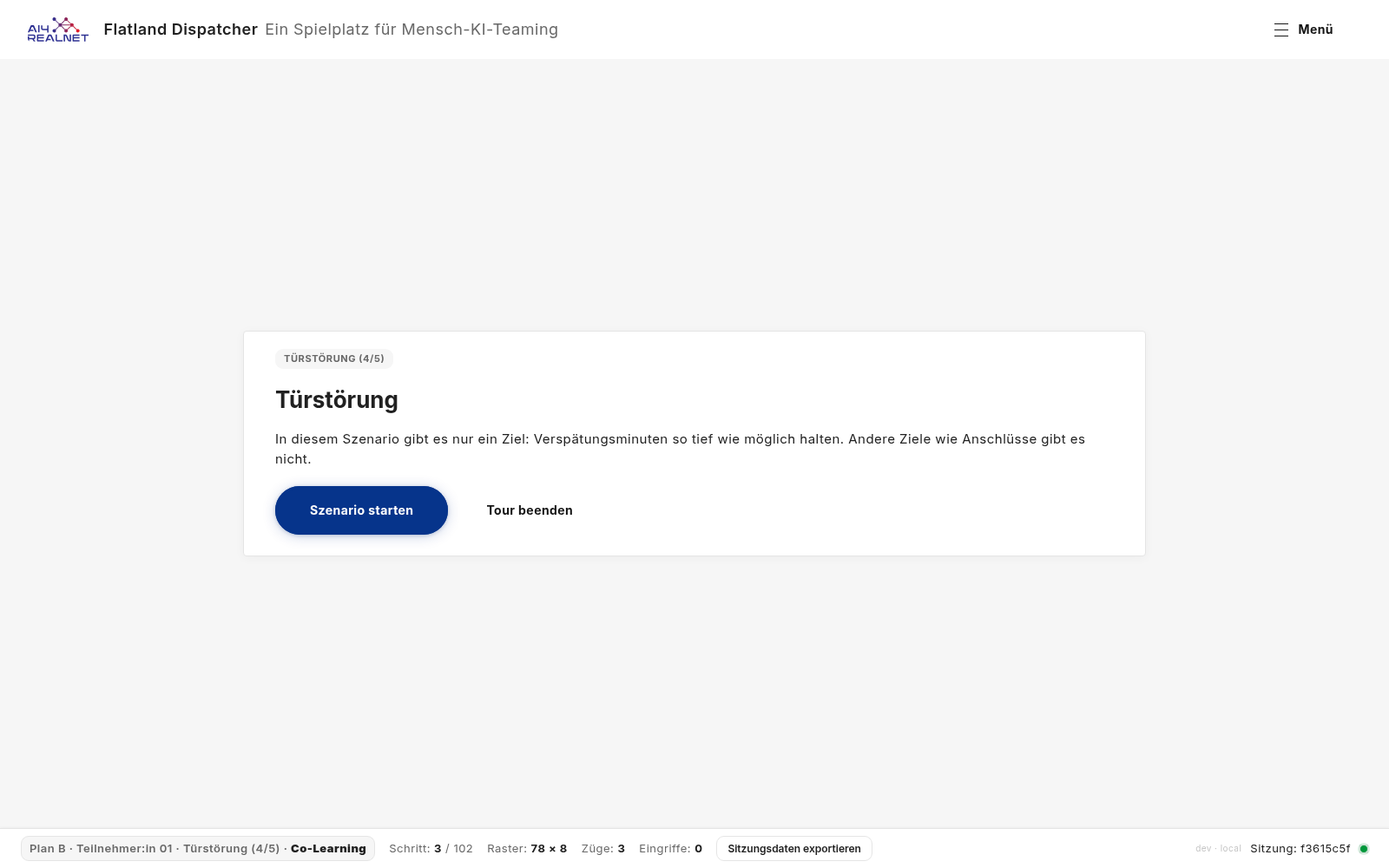
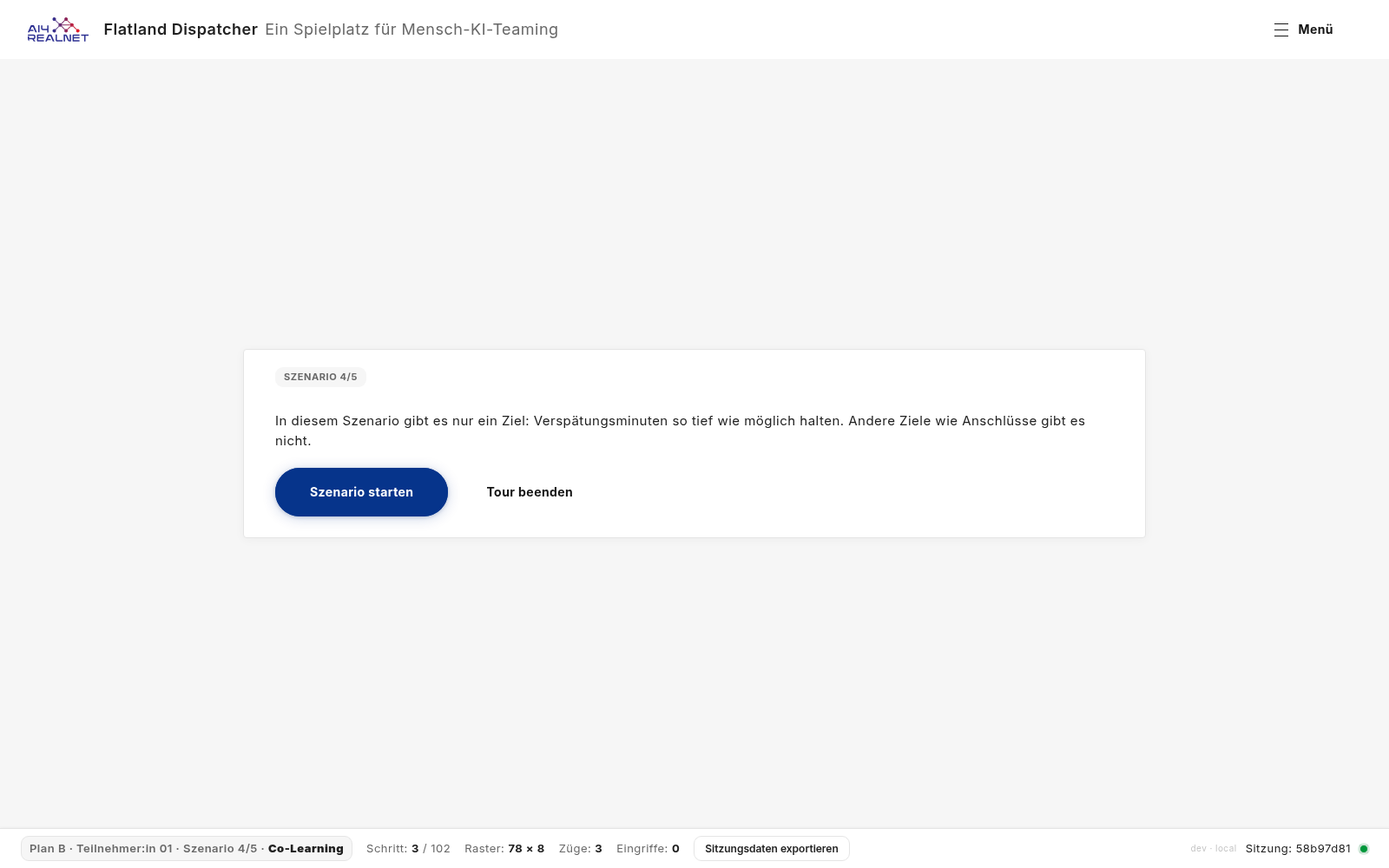
docs(plans): screenshots of the footer and the intro card without scenario names for #198.
After screenshots and walk-through retaken at f4f59f8e: the footer and the
intro card count the scenario ("Szenario 4/5") and the card has no title.
The plan records REQ-6, Q-2 revisited again, the single label gate of S-4,
and the commits of S-3 and S-4.

Changed region(s): [[0.1875, 0.403, 0.7812, 0.62], [0.125, 0.961, 0.625, 0.992], [0.875, 0.961, 0.9688, 0.992]]

diff --git a/docs/plans/hide-scenario-bar.md b/docs/plans/hide-scenario-bar.md
@@ -1,6 +1,6 @@
 # Plan B without the guide strip and without scenario names (#198)
 
-> **Status:** plan of 2026-11-16, built 2026-11-16 (S-0 to S-3). Based on `main` fd0c70cb (#164 merged). Issue
+> **Status:** plan of 2026-11-16, built 2026-11-16 (S-0 to S-5). Based on `main` fd0c70cb (#164 merged). Issue
 > [#198](https://github.com/flatland-association/flatland-ui-hub/issues/198) ("Szenario-Balken ausblenden", label
 > `plan b`). Branch `feature/198-hide-scenario-bar`, off `main` (on request; contributors usually branch off
 > `explore_db`), PR not opened yet. Q-1 to Q-4 decided 2026-11-16 (§9.2).
@@ -34,8 +34,9 @@ Requirements:
 - **REQ-4** Only Plan B changes (label `plan b`); other experiments and tours keep both bars as they are (Q-1).
 - **REQ-5** The finish button names the next scenario by its number only: «Szenario abschliessen → Szenario 2/5»
   (added by the maintainer on 2026-11-16, after the walk-through; Q-2 revisited).
-
-The names stay in the footer and the intro card: only the stepper and the finish button lose them (Q-2).
+- **REQ-6** No other place names the scenario either: the footer reads "Plan B · Teilnehmer:in 01 · Szenario 4/5",
+  the intro card's step "Szenario 4/5", and the card leaves out the scenario's title (added by the maintainer on
+  2026-11-16, after S-3; Q-2 revisited again).
 
 ### 1.2 Quality goals (non-functional requirements)
 
@@ -61,8 +62,7 @@ The names stay in the footer and the intro card: only the stepper and the finish
 
 | Follow-up | Why not in this PR | From | Findings | Issue |
 |---|---|---|---|---|
-| Drop the names also from the footer and the intro card. | Decided out: only the stepper and the finish button (Q-2, revisited). | §2.1 | - | - |
-| The scenario card of the intro (`scenarioCard`, the leg's own intro text) may name the scenario in its text. | Authored text, not the leg label; the study lead decides whether the cards change. | §2.1 | - | - |
+| The intro card's description (`scenarioCard.paragraphs`, from the scenario's `scenario.json`) may name the scenario in its text. | Authored text, not a label; the study lead decides whether the texts change. | §2.1 | - | - |
 | The hints of the Plan B guide (`PLAN_B_GUIDE_HINTS`) are no longer seen. | Requested by REQ-2; the strings stay for other uses (replay of older runs, a later decision to show the strip again). | §2.1 | - | - |
 
 ## 2. Constraints
@@ -80,10 +80,9 @@ The names stay in the footer and the intro card: only the stepper and the finish
 
 *What the built code gets wrong or ignores, each with the TODO or issue that tracks it.*
 
-- The footer ("Plan B · Teilnehmer:in 01 · Türstörung (4/5)") and the intro card still show the leg's name, by
-  decision (Q-2, §1.4).
-- The scenario card of a leg's intro is authored text and is left as it is; if it names the scenario, the name is
-  still seen there (§1.4).
+- The intro card's description is authored text and is left as it is; if it names the scenario, the name is still
+  seen there (§1.4). Checked 2026-11-16: only the tutorial's does («Das Tutorial-Szenario läuft langsam ab …»), the
+  four UC2 descriptions don't.
 - Without the strip, the step hints and the closing hint ("Alle Schritte während der Fahrt sind abgeschlossen …")
   are not seen; the strip's «Reflexion öffnen» is gone, the decision log's «Reflexion nachtragen» stays (§4.4).
 
@@ -137,7 +136,7 @@ flow, the guide's ticking, the records or the logs.
 
 | Quality goal | Scenario | Solution approach | Details |
 |---|---|---|---|
-| NFR-1 | Same ids, events, records | Gate only the presentation, through the existing UI restrictions; the guide service, the leg ids, the leg label and the run phases are untouched. | §4.3, §4.4 |
+| NFR-1 | Same ids, events, records | Gate only the presentation, through the existing UI restrictions; the guide service, the leg ids and the run phases are untouched. | §4.3, §4.4 |
 
 ### 4.1 Design principles
 
@@ -146,9 +145,9 @@ is not new on purpose.*
 
 - **DP-1 What a condition removes from the screen is a UI restriction of its layout.** Two new `hidden` ids in
   `PLAN_B_UI`, not a `StudyCondition` field: the run's flow does not change, only what is drawn (Q-1).
-- **DP-2 The course is shown by number, the shared leg label stays.** The name is dropped only where the run's course
-  is shown: the stepper (`ExperimentProgressComponent`) and the finish button (`ExperimentRunService.finishLabel`).
-  The shared leg label "⟨name⟩ (k/N)" and the other places that show it stay as they are (Q-2).
+- **DP-2 One place builds the leg label.** `TourContextService.legLabel()` decides between "⟨name⟩ (k/N)" and
+  "Szenario k/N", for live runs and replays, so the stepper, the finish button, the footer, the intro card and the
+  Schichtbilanz agree (Q-2, revisited twice).
 - **DP-3 Gate presentation, not behaviour.** The guide service keeps running and logging; only `app-tour-guide` and
   its connector lines are not drawn (NFR-1, `AGENTS.md` "Gate presentation in the frontend").
 
@@ -157,7 +156,7 @@ Reused concepts:
 | Need | Reused concept | Instead of |
 |---|---|---|
 | Plan B turns a bar off | `UiConfig.hidden` + `UI_CONFIG_ITEMS` + `PLAN_B_UI` | A new `StudyCondition` flag (like `shiftSummary`) or a briefing flag |
-| A label without the name | The existing `experimentRun.legLabel` pattern, as a sibling key | Hiding the stepper's leg boxes, or a gate in the shared leg label |
+| A label without the name | The existing `experimentRun.legLabel` pattern, as a sibling key, built where `legName()` already is | Hiding the stepper's leg boxes, or one gate per place that shows a leg |
 | A route to an open reflection without the strip | The decision log's «Reflexion nachtragen» (`reopenReflection()`) | A new button elsewhere |
 | Finish a scenario | The toolbar's finish button (`finishLabel`) | A new button |
 
@@ -169,7 +168,7 @@ Not new on purpose: no new endpoint, record field, log event, setting or conditi
 *How each requirement and quality goal is shown to work: tests, CI checks, before and after screenshots.*
 
 Screenshots: Plan B `plan-b-p01` with `ui-configs/plan-b.json`, German, 1600×1000, production build served by the
-backend; before on `main` fd0c70cb, after on this branch at bd1fbfb2 (S-2), both by
+backend; before on `main` fd0c70cb, after on this branch at f4f59f8e (S-4), both by
 [`scripts/docshots-hide-scenario-bar.mjs`](../../scripts/docshots-hide-scenario-bar.mjs) (`before`, and `after` with
 `PREVIEW=0`). The proposal shots of the plan (the same run with the change previewed in the page) were replaced by
 these; they matched.
@@ -179,9 +178,10 @@ these; they matched.
 | REQ-1 | Stepper without names | `experiment-progress.component.spec.ts`: with `control.legNames` hidden the legs read "Scenario k/N" (en); a replay applies the recorded layout (§2.2) | ✅ "Szenario 1/5 … 5/5" in all five scenarios | 03c–07c below |
 | REQ-2 | Guide strip hidden | `app.component.spec.ts`: with `control.guide` hidden `guideShown()` is false and the toolbar stays at the top; `experiment-progress.component.spec.ts`: no connector | ✅ no strip, no lines, toolbar at the top | 03b–07b below |
 | REQ-3 | «Szenario abschliessen» stays | Running app: the toolbar shows «Szenario abschliessen → …» and leads to the next scenario | ✅ the walk-through finishes every scenario with it | 03c–07c below |
-| REQ-5 | Finish button by number | `experiment-run.service.spec.ts`: with `control.legNames` hidden `finishLabel` reads «Finish scenario → Scenario 2/2» (en); footer label keeps the name | ✅ «Szenario abschliessen → Szenario 2/5 … 5/5», then «→ Fragebogen» | 03c–07c below |
+| REQ-5 | Finish button by number | `experiment-run.service.spec.ts`: with `control.legNames` hidden `finishLabel` reads «Finish scenario → Scenario 2/2» (en)| ✅ «Szenario abschliessen → Szenario 2/5 … 5/5», then «→ Fragebogen» | 03c–07c below |
+| REQ-6 | Footer and intro card by number | `experiment-run.service.spec.ts`: `currentLegLabel` reads "Scenario 1/2"; `mode-intro.component.spec.ts`: no title; `replay.service.spec.ts`: a replay numbers too | ✅ footer "… · Szenario 4/5 · Co-Learning", intro card "SZENARIO 4/5" without title | 03a–07a below |
 | REQ-4 | Only Plan B | `ui-config.service.spec.ts`: `preset-plan-b` hides both ids, no other layout does | ✅ | - |
-| NFR-1 | Same study data | Full suite green (796 specs); `app.component.spec.ts`: the guide stays active (ticks and logs) with the strip hidden; leg ids and records untouched | ✅ | - |
+| NFR-1 | Same study data | Full suite green; `app.component.spec.ts`: the guide stays active (ticks and logs) with the strip hidden; leg ids and records untouched | ✅ | - |
 
 Walk-through of every Plan B stage (scenario order of `plan-b-p01`): before
 [`before-walkthrough.gif`](hide-scenario-bar/before-walkthrough.gif), after
@@ -191,19 +191,19 @@ Walk-through of every Plan B stage (scenario order of `plan-b-p01`): before
 |---|---|---|---|
 | 01 | Start screen (unchanged) | [before](hide-scenario-bar/before-01-picker.png) | [after](hide-scenario-bar/after-01-picker.png) |
 | 02 | Briefing (unchanged) | [before](hide-scenario-bar/before-02-briefing.png) | [after](hide-scenario-bar/after-02-briefing.png) |
-| 03a | Scenario 1/5 (Tutorial): intro card (unchanged, Q-2) | [before](hide-scenario-bar/before-03a-intro.png) | [after](hide-scenario-bar/after-03a-intro.png) |
+| 03a | Scenario 1/5 (Tutorial): intro card | [before](hide-scenario-bar/before-03a-intro.png) | [after](hide-scenario-bar/after-03a-intro.png) |
 | 03b | Scenario 1/5: working screen | [before](hide-scenario-bar/before-03b-running.png) | [after](hide-scenario-bar/after-03b-running.png) |
 | 03c | Scenario 1/5: the bars above the map | [before](hide-scenario-bar/before-03c-bars.png) | [after](hide-scenario-bar/after-03c-bars.png) |
-| 04a | Scenario 2/5 (Verschobene Kreuzung an der Einspur): intro card (unchanged, Q-2) | [before](hide-scenario-bar/before-04a-intro.png) | [after](hide-scenario-bar/after-04a-intro.png) |
+| 04a | Scenario 2/5 (Verschobene Kreuzung an der Einspur): intro card | [before](hide-scenario-bar/before-04a-intro.png) | [after](hide-scenario-bar/after-04a-intro.png) |
 | 04b | Scenario 2/5: working screen | [before](hide-scenario-bar/before-04b-running.png) | [after](hide-scenario-bar/after-04b-running.png) |
 | 04c | Scenario 2/5: the bars above the map | [before](hide-scenario-bar/before-04c-bars.png) | [after](hide-scenario-bar/after-04c-bars.png) |
-| 05a | Scenario 3/5 (Mühlehorn - Tiefenwinkel): intro card (unchanged, Q-2) | [before](hide-scenario-bar/before-05a-intro.png) | [after](hide-scenario-bar/after-05a-intro.png) |
+| 05a | Scenario 3/5 (Mühlehorn - Tiefenwinkel): intro card | [before](hide-scenario-bar/before-05a-intro.png) | [after](hide-scenario-bar/after-05a-intro.png) |
 | 05b | Scenario 3/5: working screen | [before](hide-scenario-bar/before-05b-running.png) | [after](hide-scenario-bar/after-05b-running.png) |
 | 05c | Scenario 3/5: the bars above the map | [before](hide-scenario-bar/before-05c-bars.png) | [after](hide-scenario-bar/after-05c-bars.png) |
-| 06a | Scenario 4/5 (Türstörung): intro card (unchanged, Q-2) | [before](hide-scenario-bar/before-06a-intro.png) | [after](hide-scenario-bar/after-06a-intro.png) |
+| 06a | Scenario 4/5 (Türstörung): intro card | [before](hide-scenario-bar/before-06a-intro.png) | [after](hide-scenario-bar/after-06a-intro.png) |
 | 06b | Scenario 4/5: working screen | [before](hide-scenario-bar/before-06b-running.png) | [after](hide-scenario-bar/after-06b-running.png) |
 | 06c | Scenario 4/5: the bars above the map | [before](hide-scenario-bar/before-06c-bars.png) | [after](hide-scenario-bar/after-06c-bars.png) |
-| 07a | Scenario 5/5 (Blockierte Fahrbahn): intro card (unchanged, Q-2) | [before](hide-scenario-bar/before-07a-intro.png) | [after](hide-scenario-bar/after-07a-intro.png) |
+| 07a | Scenario 5/5 (Blockierte Fahrbahn): intro card | [before](hide-scenario-bar/before-07a-intro.png) | [after](hide-scenario-bar/after-07a-intro.png) |
 | 07b | Scenario 5/5: working screen | [before](hide-scenario-bar/before-07b-running.png) | [after](hide-scenario-bar/after-07b-running.png) |
 | 07c | Scenario 5/5: the bars above the map | [before](hide-scenario-bar/before-07c-bars.png) | [after](hide-scenario-bar/after-07c-bars.png) |
 | 08 | Final questionnaire (unchanged) | [before](hide-scenario-bar/before-08-final-survey.png) | [after](hide-scenario-bar/after-08-final-survey.png) |
@@ -222,21 +222,24 @@ Read from the page:
 | Guide strip | shown, under the stepper | hidden |
 | Finish button, scenario 4 | «Szenario abschliessen → Blockierte Fahrbahn (5/5)» | «Szenario abschliessen → Szenario 5/5» |
 | Finish button, scenario 5 | «Szenario abschliessen → Fragebogen» | the same |
-| Intro card, footer | "Türstörung (4/5)" | the same (Q-2) |
+| Intro card | step "Türstörung (4/5)", title "Türstörung" | step "Szenario 4/5", no title |
+| Footer | "Plan B · Teilnehmer:in 01 · Türstörung (4/5) · Co-Learning" | "Plan B · Teilnehmer:in 01 · Szenario 4/5 · Co-Learning" |
 
-### 4.3 Scenario names in the stepper and the finish button (REQ-1, REQ-5; Q-2, Q-3)
+### 4.3 Scenario names (REQ-1, REQ-5, REQ-6; Q-2, Q-3)
 
-- New UI-config id `control.legNames` ("Scenario names in the experiment stepper and the finish button; numbered
-  only"). The footer and the intro card are not covered (§1.4); extending the id to them later would change what a
-  stored `ui-config.json` hides, so that gets an id of its own (C-1).
+- New UI-config id `control.legNames` ("Scenario names of an experiment: stepper, finish button, footer, intro card;
+  numbered only").
 - New i18n key `experimentRun.legUnnamed` ("Szenario {{k}}/{{n}}", en "Scenario {{k}}/{{n}}", fr
-  "Scénario {{k}}/{{n}}", Q-3), the sibling of `experimentRun.legLabel`. With the id hidden it is used at two gate
-  points:
-  - `ExperimentProgressComponent.legs()`: each leg's box, for live runs and replays alike; else `run.legLabel(i)` /
-    `replay.legLabel(i)` as today. The component gets `UiConfigService` and `LanguageService` injected.
-  - `ExperimentRunService.finishLabel`, case `toLeg`: «Szenario abschliessen → Szenario k/N» for the next leg; the
-    other cases («→ Fragebogen») are unchanged. The service gets `UiConfigService` injected (no cycle:
-    `UiConfigService` depends only on `HttpClient` and `ui-config-items`).
+  "Scénario {{k}}/{{n}}", Q-3), the sibling of `experimentRun.legLabel`.
+- New `TourContextService.legLabel(leg, index, count)`: with the id hidden `experimentRun.legUnnamed`, else
+  `experimentRun.legLabel` with `legName(leg)` as before. `ExperimentRunService.legLabel()` and `ReplayService`
+  (`legLabel()`, `introStep`) call it instead of building the label themselves, so every place that shows a leg
+  follows: the stepper, the finish button («Szenario abschliessen → Szenario k/N»), the footer and the intro card's
+  step (`currentLegLabel`), the guide strip's title and the Schichtbilanz rows (neither shown in Plan B).
+  `TourContextService` gets `UiConfigService` injected (no cycle: `UiConfigService` depends only on `HttpClient` and
+  `ui-config-items`).
+- The intro card's title is the scenario's title, which is its name: `ModeIntroComponent` leaves it out where
+  `TourContextService.legNamesHidden()`, and the image's alt text is empty then (the step above counts it).
 
 ### 4.4 Guide strip (REQ-2, REQ-3; Q-4)
 
@@ -262,19 +265,21 @@ flowchart TD
   PLANB["PLAN_B_UI (layout preset ui block) 🟨"] --> UIC["UiConfigService ⬜"]
   UIC --> APP["AppComponent (guideShown) 🟨"]
   UIC --> XP["ExperimentProgressComponent (stepper) 🟨"]
-  UIC --> RUN["ExperimentRunService (finishLabel) 🟨"]
+  UIC --> TC["TourContextService (legLabel) 🟨"]
+  TC --> RUN["ExperimentRunService (legLabel) 🟨"]
+  TC --> REP["ReplayService (legLabel) 🟨"]
+  TC --> MI["ModeIntroComponent (intro card) 🟨"]
   RUN --> XP
-  REP["ReplayService (leg label) ⬜"] --> XP
   REP --> XP
-  RUN --> TB["Toolbar finish button ⬜"]
+  RUN --> TB["Toolbar finish button, footer ⬜"]
   APP --> TG["TourGuideComponent (guide strip) ⬜"]
 ```
 
 Notation: [flowchart in Mermaid](https://mermaid.js.org/syntax/flowchart.html); 🟩 added, 🟨 modified, ⬜ unchanged;
 an arrow reads "is used by".
 
-**Motivation:** the restriction is declared once, on the layout (DP-1); the stepper and the finish button drop the
-names, the shared leg label stays (DP-2); the strip itself stays as it is and is just not placed (DP-3).
+**Motivation:** the restriction is declared once, on the layout (DP-1); the leg label is decided once, where the
+leg's name is looked up (DP-2); the strip itself stays as it is and is just not placed (DP-3).
 
 **Contained building blocks:**
 
@@ -283,9 +288,10 @@ names, the shared leg label stays (DP-2); the strip itself stays as it is and is
 | `PLAN_B_UI` | What the Plan B study removes from the screen. Not the run's flow (that is the `StudyCondition`). | 🟨 modified: Plan B participants see no guide strip and no scenario names. |
 | `UI_CONFIG_ITEMS` / `ui-config.schema.json` | The ids a layout or deployment may hide. Not where they are applied. | 🟨 modified: two new ids, `control.guide` and `control.legNames`. |
 | `AppComponent` | Places the working screen's bars. Not what they show. | 🟨 modified: leaves the guide strip out where it is hidden. |
-| `ExperimentProgressComponent` | The stepper of a multi-leg run. Not the steps inside a leg. | 🟨 modified: numbers the scenarios ("Szenario 2/5") where names are hidden, and draws no lines to a hidden guide strip. |
-| `ExperimentRunService` | The run's legs and phases, the leg label "⟨name⟩ (k/N)" and what the finish button says. Not the stepper. | 🟨 modified: the finish button names the next scenario by number where names are hidden. |
-| `ReplayService` | The recorded run's legs and phases, and their labels. | ⬜ unchanged |
+| `TourContextService` | The running tour's or leg's texts and scenario data, and how a leg is labelled. Not the run's phases (`ExperimentRunService`). | 🟨 modified: names a leg "Szenario k/N" where names are hidden. |
+| `ExperimentProgressComponent` | The stepper of a multi-leg run. Not the steps inside a leg. | 🟨 modified: draws no lines to a hidden guide strip. |
+| `ExperimentRunService` / `ReplayService` | The run's legs and phases, live or recorded. Not how a leg is labelled. | 🟨 modified: take the leg label from `TourContextService`, so the stepper, finish button and footer number the scenarios. |
+| `ModeIntroComponent` | The intro card before a scenario. Not the scenario's text. | 🟨 modified: no scenario title where names are hidden. |
 | `TourGuideComponent` | The steps and hints of the running leg. | ⬜ unchanged |
 | Toolbar finish button | Finishes the scenario; shows `finishLabel`. | ⬜ unchanged |
 
@@ -330,8 +336,8 @@ All decided 2026-11-16 by the maintainer; the options stay for the record.
 #167, #168).
 
 ~~**(Q-2) Where are the scenario names dropped?**~~ **Decided 2026-11-16:** b), only in the stepper. **Revisited
-2026-11-16** after the walk-through: the stepper and the finish button («Szenario abschliessen → Szenario 2/5», REQ-5);
-the footer and the intro card keep the name.
+2026-11-16** after the walk-through: the stepper and the finish button («Szenario abschliessen → Szenario 2/5», REQ-5).
+**Revisited again 2026-11-16** after S-3: everywhere, a) (REQ-6).
 - a) Everywhere the leg label "⟨name⟩ (k/N)" shows: stepper, finish button («Szenario abschliessen → Szenario 3/5»),
   footer, intro card (and the hidden strip's title).
 - b) Only in the stepper, as the issue's first bullet says; the finish button still names the next scenario
@@ -364,7 +370,8 @@ the map.
 | 2026-11-16 | ~~✅ Names dropped in the stepper only (Q-2, §4.3).~~ Replaced by the decision below of the same day. | As the issue's bullet says. | - |
 | 2026-11-16 | ✅ "Szenario 2/5", the tutorial included (Q-3, §4.3). | Reads as a course step; "2/5" alone is terse, a named tutorial needs a per-leg flag. | One new i18n key in en, de, fr. |
 | 2026-11-16 | ✅ Toolbar at the top without the strip (Q-4, §4.4). | Where it is in any run without a guide; no code. | Checked in the running app in S-2. |
-| 2026-11-16 | ✅ (Q-2) revisited: names dropped in the stepper and the finish button (REQ-5, §4.3). | The walk-through showed «Szenario abschliessen → Blockierte Fahrbahn (5/5)» naming the next scenario, which the stepper no longer does. The footer and the intro card were not asked for. | One id covers both (`control.legNames`); a second gate point in `ExperimentRunService.finishLabel`; footer and intro card stay a follow-up (§1.4). |
+| 2026-11-16 | ~~✅ (Q-2) revisited: names dropped in the stepper and the finish button (REQ-5, §4.3).~~ Replaced by the decision below of the same day. | The walk-through showed «Szenario abschliessen → Blockierte Fahrbahn (5/5)» naming the next scenario, which the stepper no longer does. The footer and the intro card were not asked for. | One id covers both (`control.legNames`); a second gate point in `ExperimentRunService.finishLabel`; footer and intro card stay a follow-up (§1.4). |
+| 2026-11-16 | ✅ (Q-2) revisited again: no place names the scenario (REQ-6, §4.3). | After S-3 the footer and the intro card were the last places with the name; the maintainer asked to close that follow-up. `control.legNames` was not pushed yet, so it was widened instead of adding a second id. | The gate moved into one place, `TourContextService.legLabel()`, replacing S-1's two gate points; the intro card leaves out the scenario's title. |
 
 ### 9.3 Code Review Findings
 
@@ -403,7 +410,9 @@ None yet.
 | ✅ S-0 | - | This plan, with before and proposal screenshots and the walk-through script | docs | low | docs(plans): plan for #198, Plan B without the guide strip and the scenario names. | 561b9a82 | - | - |
 | ✅ S-1 | - | `control.legNames`: id, schema, `ExperimentProgressComponent.legs()`, `ExperimentRunService.finishLabel`, i18n key (en, de, fr), `PLAN_B_UI`, README, specs (§4.3) | feature | medium | feat(experiment-run): let a condition number its scenarios in the stepper and the finish button, without their names. | 751caa98 | S-0 | - |
 | ✅ S-2 | - | `control.guide`: id, schema, `guideShown()`, `connected()`, `PLAN_B_UI`, README, specs; check the replay (§2.2) and the toolbar's place (Q-4) | feature | medium | feat(tour-guide): let a condition hide the guide strip and keep «Szenario abschliessen». | bd1fbfb2 | S-0 | - |
-| 💡 S-3 | - | After screenshots (`PREVIEW=0`) in place of the proposal ones, and results in §4.2 | docs | low | docs(plans): screenshots of Plan B without the guide strip and the scenario names for #198. |  | S-1, S-2 | - |
+| ✅ S-3 | - | After screenshots (`PREVIEW=0`) in place of the proposal ones, and results in §4.2 | docs | low | docs(plans): screenshots of Plan B without the guide strip and the scenario names for #198. | 5b3c2782 | S-1, S-2 | - |
+| ✅ S-4 | - | `TourContextService.legLabel()` as the one gate (replacing S-1's two), `ReplayService`, the intro card's title, specs, README; the `control.guide` entry moved above `control.legNames`' comment (S-2 put it in between) (§4.3) | feature | medium | feat(experiment-run): name no scenario in the footer and the intro card either where a condition hides the names. | f4f59f8e | S-3 | - |
+| 💡 S-5 | - | After screenshots retaken, results for REQ-6 in §4.2 | docs | low | docs(plans): screenshots of the footer and the intro card without scenario names for #198. |  | S-4 | - |
 
 ## 12. Change inventory
 
@@ -429,12 +438,14 @@ None yet.
 | `frontend/public/ui-config.schema.json` | The two ids in `hidden`'s `enum`. |
 | `frontend/src/app/core/layout/layout-presets.ts` | `PLAN_B_UI.hidden`: the two ids, with the issue. |
 | `frontend/src/app/app.component.ts` | `guideShown()` checks `control.guide`. |
-| `frontend/src/app/core/demo/experiment-run.service.ts` | `finishLabel` (`toLeg`) names the next leg by number where `control.legNames` is hidden; injects `UiConfigService`. |
-| `frontend/src/app/features/experiment-progress/experiment-progress.component.ts` | `legs()` numbers the legs where `control.legNames` is hidden; `connected()` checks `control.guide`. |
+| `frontend/src/app/core/demo/tour-context.service.ts` | `legLabel(leg, index, count)` and `legNamesHidden`, gated by `control.legNames`; injects `UiConfigService`. |
+| `frontend/src/app/core/demo/experiment-run.service.ts` | `legLabel()` calls `TourContextService.legLabel()`. |
+| `frontend/src/app/core/replay/replay.service.ts` | `legLabel()` and `introStep` call `TourContextService.legLabel()`. |
+| `frontend/src/app/features/mode-intro/mode-intro.component.{ts,html}` | No scenario title (and an empty image alt) where names are hidden. |
+| `frontend/src/app/features/experiment-progress/experiment-progress.component.ts` | `connected()` checks `control.guide`. |
 | `frontend/public/i18n/{en,de,fr}.json` | `experimentRun.legUnnamed`. |
 | `README.md` | The Plan B list of what is hidden: the two new ids (and drop "starts the Decision Log collapsed", which `PLAN_B_UI` no longer does). |
-| `experiment-progress.component.spec.ts`, `experiment-run.service.spec.ts`, `app.component.spec.ts`, `ui-config.service.spec.ts` | The checks of §4.2. |
+| `experiment-progress.component.spec.ts`, `experiment-run.service.spec.ts`, `replay.service.spec.ts`, `mode-intro.component.spec.ts`, `app.component.spec.ts`, `ui-config.service.spec.ts` | The checks of §4.2. |
 
-Unchanged on purpose: `TourGuideComponent`, `TourGuideService`, the leg label (`ExperimentRunService.legLabel()`, `ExperimentRunService.currentLegLabel`,
-`ReplayService.legLabel()`, `TourContextService.legName()`), the toolbar, `StudyCondition`, records, logs, the
+Unchanged on purpose: `TourGuideComponent`, `TourGuideService`, `TourContextService.legName()`, the toolbar, `StudyCondition`, records, logs, the
 backend.
